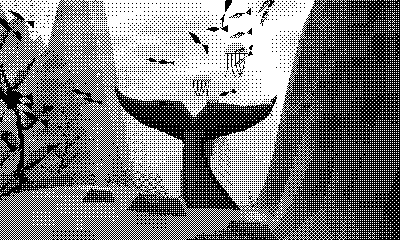
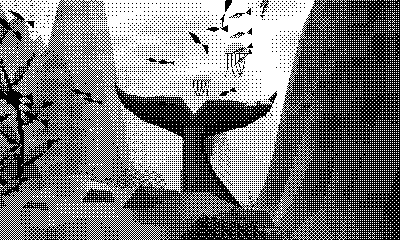
Break up the seabed with rock shelves and scattered boulders

diff --git a/src/world.c b/src/world.c
@@ -117,6 +117,66 @@ static float hull_distance(float along,float across){
     float dz=fmaxf(0,fabsf(across)-5.6f);
     return sqrtf(dx*dx+dz*dz);
 }
+/* A slab has a broad chipped crown and a steeper skirt. Sample the same
+   footprint on the 2 m height grid and the 1 m material grid at load time. */
+typedef struct {
+    float x,z,radius,width,height,cs,sn;
+} Slab;
+
+static void stamp_slab(Slab s,int material){
+    float along,across;
+    wreck_coordinates(s.x,s.z,&along,&across);
+    float bound=s.radius*1.3f;
+    if(hull_distance(along,across)<bound+5)return;
+    int spacing=material?1:2;
+    int last=material?GROUND_SAMPLES-1:GRID-1;
+    int x0=(int)clamp((s.x+EXTENT-bound)/spacing,0,last);
+    int x1=(int)clamp((s.x+EXTENT+bound)/spacing,0,last);
+    int z0=(int)clamp((s.z+EXTENT-bound)/spacing,0,last);
+    int z1=(int)clamp((s.z+EXTENT+bound)/spacing,0,last);
+    for(int j=z0;j<=z1;j++)for(int i=x0;i<=x1;i++){
+        float dx=i*spacing-EXTENT-s.x,dz=j*spacing-EXTENT-s.z;
+        float u=(dx*s.cs+dz*s.sn)/s.radius,v=(dz*s.cs-dx*s.sn)/s.width;
+        float edge=fmaxf(fabsf(u+.16f*v),fmaxf(fabsf(v-.18f*u),.70f*fabsf(u)+.68f*fabsf(v)));
+        if(edge>=1)continue;
+        float crown=.89f-.18f*u+.09f*v;
+        float height=s.height*fminf(crown,2.1f*(1-edge));
+        if(material){
+            /* Cut faces catch the overhead light. Sand shows through at the toe. */
+            float lit=clamp(.55f-(dx*.55f+dz*.72f)/s.radius,0,1);
+            float tone=126+18*lit;
+            if(2.1f*(1-edge)<crown)tone=68+59*lit;
+            float weight=clamp((1-edge)*3,0,.52f);
+            float sand=groundTone[j][i];
+            groundTone[j][i]=(uint8_t)(sand+weight*(tone-sand));
+        }else{
+            int rise=(int)(height*4+.5f);
+            if(seabed[j][i]<-8)seabed[j][i]+=(int16_t)fminf(rise,-8-seabed[j][i]);
+        }
+    }
+}
+
+static void scatter_scree(int material){
+    uint32_t savedSeed=seed;
+    seed=0x27aa641bu;
+    for(int z=-EXTENT;z<EXTENT;z+=14)for(int x=-EXTENT;x<EXTENT;x+=14){
+        float cx=x+1+12*random01(),cz=z+1+12*random01();
+        float bearing=random01()*6.2832f;
+        int count=2+(int)(3*random01());
+        for(int k=0;k<count;k++){
+            float offset=k?2+random01()*5:0;
+            float angle=bearing+2.4f*k+random01()*.8f;
+            float radius=k?1.45f+1.55f*random01():2.8f+2.1f*random01();
+            float width=radius*(.54f+.29f*random01());
+            float height=radius*(.28f+.27f*random01());
+            float turn=bearing+random01()*1.4f;
+            Slab slab={cx+offset*cosf(angle),cz+offset*sinf(angle),radius,width,height,cosf(turn),sinf(turn)};
+            stamp_slab(slab,material);
+        }
+    }
+    seed=savedSeed;
+}
+
 /* Bake contact into the tone map before lighting it. Keep the strongest
    footprint so overlapping colonies cannot turn a shelf into a black strip. */
 static void bake_contacts(void){
@@ -306,6 +366,7 @@ void generate_world(void){
         }
         seabed[j][i]=(int16_t)(h*4);
     }
+    scatter_scree(0);
     prepare_rails();
     open_passages();
     prepare_swim_bed();
@@ -364,10 +425,13 @@ void generate_world(void){
        footprint before shading the floor or indexing visible props. */
     for(int i=0;i<PROP_COUNT;i++){
         Prop *p=&props[i];
-        /* Thin the wild clusters and the planted borders before both the
-           contact bake and the spatial index consume the final population. */
-        if((i<WILD_PROPS && (i%3==1 || (p->kind==CORAL && i%3==2))) ||
-           (i>=WILD_PROPS && p->kind==CORAL && i%3==1)){
+        /* Keep the gaps between tall colonies open. Low, partly buried stones
+           share the existing prop slots, terrain clipping and distance fade. */
+        if(i<WILD_PROPS && i%3==1){
+            p->size=.75f+.11f*p->phase;
+            p->kind=BOULDER;
+            p->p=attachment(p->p.x,p->p.z,BOULDER,p->size);
+        }else if(p->kind==CORAL && (i<WILD_PROPS?i%3==2:i%3==1)){
             p->kind=EMPTY_PROP;
             continue;
         }
@@ -388,6 +452,7 @@ void generate_world(void){
     }
     bake_stone();
     shade_ground();
+    scatter_scree(1);
 }
 float floor_at(float x,float z){
     float gx=clamp((x+EXTENT)*.5f,0,GRID-1.001f),gz=clamp((z+EXTENT)*.5f,0,GRID-1.001f);

diff --git a/README.ru.md b/README.ru.md
@@ -4,7 +4,7 @@
 
 Подводное демо для **Playdate**, написанное на C. В первом пролёте из зарослей показывается затонувший корабль. Камера обходит шесть мест за 96 секунд. Нажми **A** в любой момент, чтобы продолжить путь самостоятельно.
 
-**[Скачать Brineglass 0.7.5](https://github.com/meshchaninov/brineglass-playdate/releases/download/v0.7.5/Brineglass-0.7.5.pdx.zip)** · [English](README.md) · [Пролёты в движении](docs/media/tour.gif)
+**[Скачать Brineglass 0.7.6](https://github.com/meshchaninov/brineglass-playdate/releases/download/v0.7.6/Brineglass-0.7.6.pdx.zip)** · [English](README.md) · [Пролёты в движении](docs/media/tour.gif)
 
 ## Кадры демо
 
@@ -16,7 +16,7 @@
 | --- | --- |
 | ![Рифовая акула над зарослями ламинарии](docs/media/reef-shark.png) | ![Группа кальмаров идёт над гротом](docs/media/squid.png) |
 
-Стартовый кадр снят в Playdate Simulator на версии 0.7.5. Остальные кадры сохранены из C-рендера 0.7.5 в родном разрешении 400 × 240. Акул, кальмаров и косяки серебристых рыб можно встретить и в свободном плавании.
+Стартовый кадр снят в Playdate Simulator на версии 0.7.6. Остальные кадры сохранены из C-рендера 0.7.6 в родном разрешении 400 × 240. Акул, кальмаров и косяки серебристых рыб можно встретить и в свободном плавании.
 
 ## Установка
 
@@ -40,7 +40,7 @@
 
 Рельеф, объекты и живность рисуются прямо в однобитный экранный буфер **400 × 240**. Границы скал и ветвей проходят по отдельным пикселям. Освещение воды рассчитывается по опорным точкам и интерполируется внутри участков 8 × 4 пикселя. И пролёты, и свободное плавание используют один рендерер.
 
-На физической Playdate со звуком полный круг в версии 0.7.5 занял **95,997 с за 2910 кадров (30,31 FPS)**. Самый долгий вызов обновления игры с управлением, отрисовкой и звуком занял 31 мс. [Как ламинария проступает из мути](docs/media/water-haze.gif) · [Замеры шести пролётов](docs/rendering.ru.md) · [Китовый хвост до и после оптимизации](docs/media/native-comparison.png)
+На физической Playdate со звуком полный круг в версии 0.7.6 занял **95,998 с за 2910 кадров (30,31 FPS)**. Самый долгий вызов обновления игры с управлением, отрисовкой и звуком занял 33 мс. [Каменистое дно до и после](docs/media/rocky-bed.png) · [Замеры шести пролётов](docs/rendering.ru.md) · [Китовый хвост до и после оптимизации](docs/media/native-comparison.png)
 
 ## Сборка
 

diff --git a/docs/rendering.ru.md b/docs/rendering.ru.md
@@ -22,6 +22,27 @@
 
 В каталоге проекта запусти `make` с установленными Playdate SDK и GNU Arm Embedded Toolchain. Makefile берёт SDK из PLAYDATE_SDK_PATH или из ~/.Playdate/config. Готовый Brineglass.pdx содержит программу для консоли и библиотеку симулятора для той системы, на которой была выполнена сборка.
 
+## Каменистое дно в 0.7.6
+
+Валуны теперь лежат группами на низких грядах. Между ними остаются участки открытого песка. У корабля сохранён профиль отмели, чтобы камни не закрывали корпус.
+
+![Pillar Grove и Coral Grotto с одинаковых точек свободного плавания в 0.7.5 и 0.7.6](media/rocky-bed.png)
+
+При загрузке генератор расставляет клиновидные плиты и мелкие обломки по всей карте. Для каждой плиты он записывает высоту на сетке с шагом 2 м и освещение граней на сетке с шагом 1 м. Новые выступы подняли 5999 из 25 921 узла дна. Рендерер берёт высоты из той же карты, по которой камера и рыбы огибают грунт. Сетка и число срезов на кадр остались прежними.
+
+Отдельных валунов стало 349 вместо 104. Дополнительные 245 камней занимают свободные места между прореженными группами растений. Вблизи у них видны грани, а вдали они постепенно исчезают в мути. В полном пролёте у корабля проверка подтвердила, что верхняя обшивка и такелаж остаются видимыми. Проверки рельефа под кораллами, плавания рыб и видимости в мутной воде также прошли.
+
+На физической Playdate со звуком при 400 × 240 тур дал **2910 кадров за 95,998 с (30,31 FPS)**. Самое долгое обновление заняло 33 мс.
+
+| Пролёт | Кадры | FPS | Средняя работа, мс | Пик работы, мс | Интервал между кадрами, P95 / максимум, мс |
+| --- | ---: | ---: | ---: | ---: | ---: |
+| Shipwreck | 485 | 30,37 | 26,6 | 31 | 33 / 34 |
+| Kelp forest | 485 | 30,30 | 17,4 | 25 | 33 / 34 |
+| Whale fluke | 485 | 30,30 | 28,4 | 33 | 33 / 34 |
+| Sponge canyon | 485 | 30,30 | 24,4 | 28 | 33 / 34 |
+| Coral grotto | 485 | 30,30 | 20,0 | 26 | 33 / 34 |
+| Pillar grove | 485 | 30,30 | 17,2 | 23 | 33 / 34 |
+
 ## Как риф проступает из мути в 0.7.5
 
 В Sponge Canyon высокая ламинария входила в радиус отрисовки на девятой секунде пролёта. За один кадр над дном появлялись сразу 227 пикселей растения. Это видно в левой половине ролика. Справа тот же пролёт после изменения.

diff --git a/README.md b/README.md
@@ -4,7 +4,7 @@
 
 A one-bit diving demo for **Playdate**, written in C. The tour opens on a sunken ship. Follow the camera through six dive sites, or press **A** mid-flight and swim straight into the scene.
 
-**[Download Brineglass v0.7.5](https://github.com/meshchaninov/brineglass-playdate/releases/download/v0.7.5/Brineglass-0.7.5.pdx.zip)** · [Русский](README.ru.md) · [Watch the tour preview](docs/media/tour.gif)
+**[Download Brineglass v0.7.6](https://github.com/meshchaninov/brineglass-playdate/releases/download/v0.7.6/Brineglass-0.7.6.pdx.zip)** · [Русский](README.ru.md) · [Watch the tour preview](docs/media/tour.gif)
 
 ## From the LCD
 
@@ -16,7 +16,7 @@ A one-bit diving demo for **Playdate**, written in C. The tour opens on a sunken
 | --- | --- |
 | ![A reef shark swims above the kelp](docs/media/reef-shark.png) | ![A pod of squid swims above the coral](docs/media/squid.png) |
 
-The opening screenshot comes from v0.7.5 running in Playdate Simulator. The other frames are native 400 × 240 exports from the v0.7.5 C renderer.
+The opening screenshot comes from v0.7.6 running in Playdate Simulator. The other frames are native 400 × 240 exports from the v0.7.6 C renderer.
 
 ## Take a dive
 
@@ -41,13 +41,13 @@ Brineglass draws each frame directly into the **400 × 240** one-bit framebuffer
 
 The water projection samples wave and shaft intensities at the corners of 8 × 4 light patches. It interpolates the light across native scanlines and dithers eight LCD pixels into one byte. Triangle edges use fixed-point arithmetic. Sprites and facets are drawn from far to near, and the coral atlas skips transparent texels. The tour and free swim share this renderer.
 
-| Physical Playdate, v0.7.5, sound enabled | Result |
+| Physical Playdate, v0.7.6, sound enabled | Result |
 | --- | ---: |
-| Complete six-site tour | 2,910 frames in 95.997 s · **30.31 FPS** |
-| Longest update, including controls, overlays and audio | 31 ms |
+| Complete six-site tour | 2,910 frames in 95.998 s · **30.31 FPS** |
+| Longest update, including controls, overlays and audio | 33 ms |
 | Updates over 33 ms | 0 |
 
-[Watch distant kelp emerge through the water](docs/media/water-haze.gif) · [Timings for each site](docs/rendering.ru.md) · [Same camera in v0.5.5 and v0.6.0](docs/media/native-comparison.png)
+[Compare the rocky seabed at two dive sites](docs/media/rocky-bed.png) · [Timings for each site](docs/rendering.ru.md) · [Same camera in v0.5.5 and v0.6.0](docs/media/native-comparison.png)
 
 ## Build from source
 
